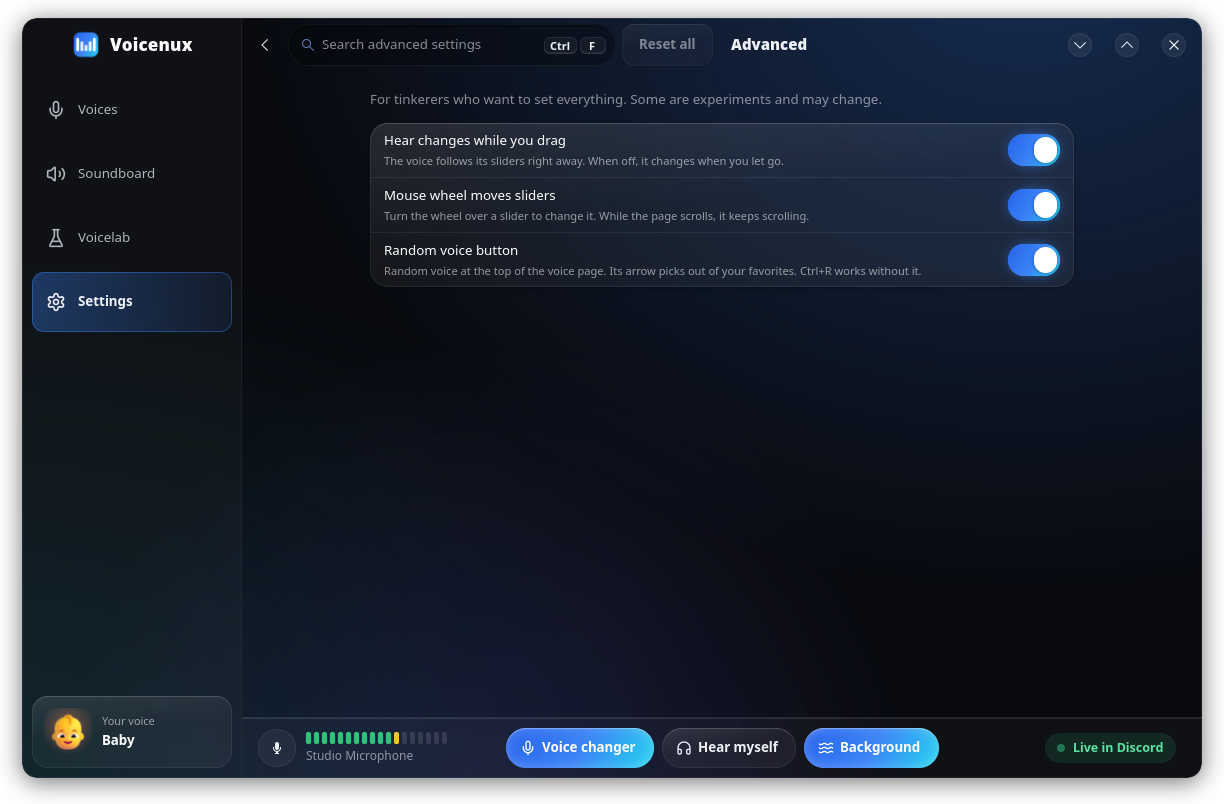
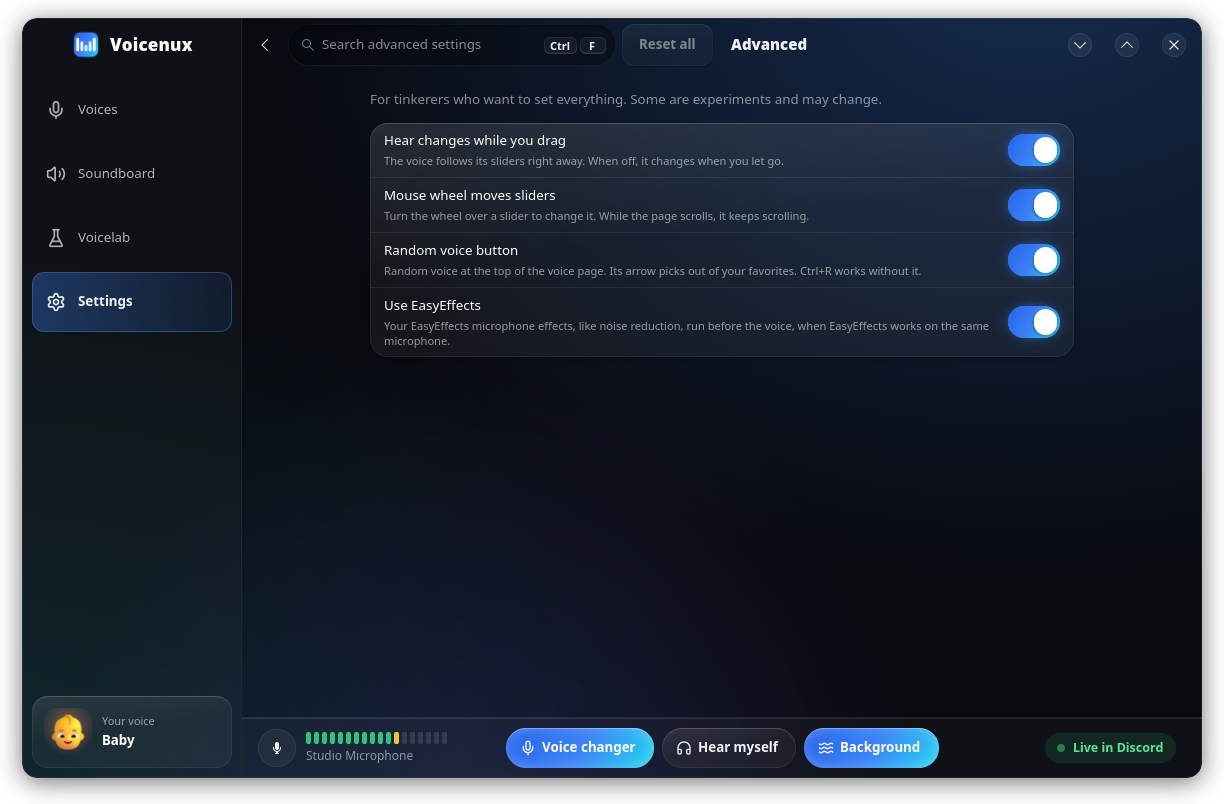
docs: new screenshots

diff --git a/README.md b/README.md
@@ -24,7 +24,7 @@
 
 <p align="center">
   <img width="720" src="res/voices.png" alt="Voicenux with the Baby voice selected: a grid of voice cards, the voice with its pitch settings on the right, and the switches for voice changer, hear myself and background at the bottom">
-  <img width="720" src="res/soundboard.png" alt="The soundboard with a Memes folder and sound pads; Drum Roll and Applause are playing and show their progress as a ring. Under the sounds, a bar with their volume, Hear them myself, the play modes and Stop all. On the right, Find sounds lists applause sounds from MyInstants with their likes and views">
+  <img width="720" src="res/soundboard.png" alt="The soundboard with a Memes folder and sound pads; Drum Roll and Applause are playing and show their progress as a ring. Under the sounds, a bar with their volume, Hear them myself, the play modes and Stop all. On the right, Find sounds with a microphone button next to its search lists applause sounds from MyInstants with their likes and views">
 </p>
 
 ## Install
@@ -107,7 +107,7 @@ sound, like rain or a campfire.
 <summary>Soundboard</summary>
 
 <p align="center">
-  <img width="720" src="res/soundboard.png" alt="The soundboard with a Memes folder and sound pads; Drum Roll and Applause are playing and show their progress as a ring. Under the sounds, a bar with their volume, Hear them myself, the play modes and Stop all. On the right, Find sounds lists applause sounds from MyInstants with their likes and views">
+  <img width="720" src="res/soundboard.png" alt="The soundboard with a Memes folder and sound pads; Drum Roll and Applause are playing and show their progress as a ring. Under the sounds, a bar with their volume, Hear them myself, the play modes and Stop all. On the right, Find sounds with a microphone button next to its search lists applause sounds from MyInstants with their likes and views">
 </p>
 
 Sounds play into the Voicenux Microphone, so others hear them too. **Find sounds** searches
@@ -175,7 +175,7 @@ new app may control it.
 <summary>Advanced settings</summary>
 
 <p align="center">
-  <img width="720" src="res/advanced.png" alt="Advanced settings: a search field, Reset all, and switches for Hear changes while you drag, Mouse wheel moves sliders and Random voice button, each with a line about what it does">
+  <img width="720" src="res/advanced.png" alt="Advanced settings: a search field, Reset all, and switches for Hear changes while you drag, Mouse wheel moves sliders, Random voice button and Use EasyEffects, each with a line about what it does">
 </p>
 
 At the bottom of Settings, **Advanced settings** has switches for tinkerers, like the flags of a
